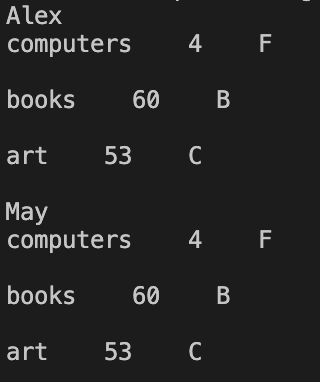
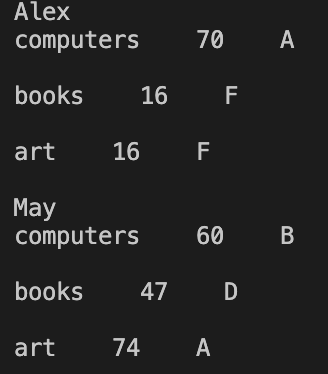
fixed a bug in task 10 where marks where duplicated and updated proof screenshot + completed task 11 and added screenshot of it working

diff --git a/module_1_programming_concepts/week_4/Exercise_11.java b/module_1_programming_concepts/week_4/Exercise_11.java
@@ -1,16 +1,17 @@
 import java.util.Random;
-public class Exercise_10 {
+import java.util.Arrays;
+public class Exercise_11 {
     public static void main(String[] args)
     {
-        Module10 mod1 = new Module10("AUG399ga93", "computers");
+        Module11 mod1 = new Module11("AUG399ga93", "computers");
 
-        Module10 mod2 = new Module10("GKhsohko", "books");
+        Module11 mod2 = new Module11("GKhsohko", "books");
 
-        Module10 mod3 = new Module10("wk3j4tiTO", "art");
+        Module11 mod3 = new Module11("wk3j4tiTO", "art");
 
-        Module10 mod4 = new Module10("93htuw9", "tech");
+        Module11 mod4 = new Module11("93htuw9", "tech");
 
-        Course10 course = new Course10("39429693", "computer science", mod1, mod2, mod3, mod4);
+        Course11 course = new Course11("39429693", "computer science", mod1, mod2, mod3, mod4);
 
 
         Random randomNum = new Random();
@@ -18,7 +19,7 @@ public class Exercise_10 {
         int mark2 = randomNum.nextInt(101);
         int mark3 = randomNum.nextInt(101);
         int mark4 = randomNum.nextInt(101);
-        Student10 student = new Student10("Alex", 39429593);
+        Student11 student = new Student11("Alex", 39429593);
 
         student.enroll(course);
         student.add_module_mark(mark1, mark2, mark3, mark4);
@@ -28,67 +29,55 @@ public class Exercise_10 {
         int mark6 = randomNum2.nextInt(101);
         int mark7 = randomNum2.nextInt(101);
         int mark8 = randomNum2.nextInt(101);
-        Student10 student2 = new Student10("May", 8724);
+        Student11 student2 = new Student11("May", 8724);
 
         student2.enroll(course);
         student2.add_module_mark(mark5, mark6, mark7, mark8);
 
 
-        Exercise_10.print_student_list(student, student2);
+        Exercise_11.print_student_list(student, student2);
 
     }
-    public static void print_student_list(Student10 student, Student10 student2)
+    public static void print_student_list(Student11 student, Student11 student2)
     {
         
         String name = student.getName();
-        Exercise_10.get_student_info(student, name);
+        Exercise_11.get_student_info(student, name);
 
         String name2 = student2.getName();
-        Exercise_10.get_student_info(student2, name2);
+        Exercise_11.get_student_info(student2, name2);
         
     }
-    public static void get_student_info(Student10 student, String name)
+    public static void get_student_info(Student11 student, String name)
     {
         System.out.println(name);
+        System.out.println();
+        ModuleMark2 marks = student.getMark();
 
-        Course10 course = student.getCourse();
-        Module10[] modules = course.getModules();
+        int min = marks.getMin();
+        int max = marks.getMax();
+        double mean = marks.getMean();
 
-        ModuleMark marks = student.getMark();//gives moduleMarks type
-        int[] mark_list = marks.getMark();
-        String[] grade_list = marks.getLetterGrade();
-
-        int count = 0;
-        while(count < 3){
-
-
-            Module10 module_obj = modules[count];
-            String module = module_obj.getName();
-
-            int mark = mark_list[count];
-            String grade = grade_list[count];
-
-            System.out.print(module);
-            System.out.print("    ");
-
-            System.out.print(mark);
-            System.out.print("    ");
-            System.out.println(grade);
-        
-            System.out.println();
-            count++;
-        }
+        System.out.print(min);
+        System.out.println("     min");
+        System.out.print(max);
+        System.out.println("     max");
+        System.out.print(mean);
+        System.out.println("     mean");
+        System.out.println();
+        System.out.println();
+       
     }
 }
 
 
 
-class ModuleMark
+class ModuleMark2
 {
     private int[] mark = new int[4];
     
 
-    public ModuleMark(int mark1, int mark2, int mark3, int mark4)
+    public ModuleMark2(int mark1, int mark2, int mark3, int mark4)
     {
         this.mark[0] = mark1;
         this.mark[1] = mark2;
@@ -126,34 +115,56 @@ class ModuleMark
 
         return(grade);
     }
+    public int getMin()
+    {
+        int min = Arrays.stream(this.mark).min().getAsInt();
+        return(min);
+    }
+    public int getMax()
+    {
+        int max = Arrays.stream(this.mark).max().getAsInt();
+        return(max);
+    }
+    public double getMean()
+    {
+ 
+        int sum = 0;
+ 
+        for (int i = 0; i < 4; i++) {
+            sum += this.mark[i];
+        }
+ 
+        double mean = sum / 4;
+        return(mean);
+    }
 }
 
-class Student10
+class Student11
 {
     private int id;
     private String name;
-    private Course10 course;
-    private ModuleMark module_marks;
+    private Course11 course;
+    private ModuleMark2 module_marks;
     
 
-    public Student10(String Student_name, int Student_id)
+    public Student11(String Student_name, int Student_id)
     {
         this.name = Student_name;
         this.id = Student_id;
     }
 
-    public void enroll(Course10 student_course)
+    public void enroll(Course11 student_course)
     {
         this.course = student_course;
     }
 
     public void add_module_mark(int mark1, int mark2, int mark3, int mark4)
     {
-        ModuleMark module_mark = new ModuleMark(mark1, mark2, mark3, mark4);
+        ModuleMark2 module_mark = new ModuleMark2(mark1, mark2, mark3, mark4);
         this.module_marks = module_mark;
     }
 
-    public ModuleMark getMark()
+    public ModuleMark2 getMark()
     {
         return this.module_marks;
     }
@@ -166,19 +177,19 @@ class Student10
     {
         return this.id;
     }
-    public Course10 getCourse()
+    public Course11 getCourse()
     {
         return this.course;
     }
 }
 
-class Course10
+class Course11
 {
     private String code;
     private String name;
-    private Module10[] module3s = new Module10[4];
+    private Module11[] module3s = new Module11[4];
 
-    public Course10(String Course_code, String Course_name, Module10 mod1, Module10 mod2, Module10 mod3, Module10 mod4)
+    public Course11(String Course_code, String Course_name, Module11 mod1, Module11 mod2, Module11 mod3, Module11 mod4)
     {
         this.code = Course_code;
         this.name = Course_name;
@@ -198,18 +209,18 @@ class Course10
     {
         return this.code;
     }
-    public Module10[] getModules()
+    public Module11[] getModules()
     {
         return this.module3s;
     }
 }
 
-class Module10
+class Module11
 {
     private String code;
     private String name;
 
-    public Module10(String Module_code, String Module_name)
+    public Module11(String Module_code, String Module_name)
     {
         this.code = Module_code;
         this.name = Module_name;
